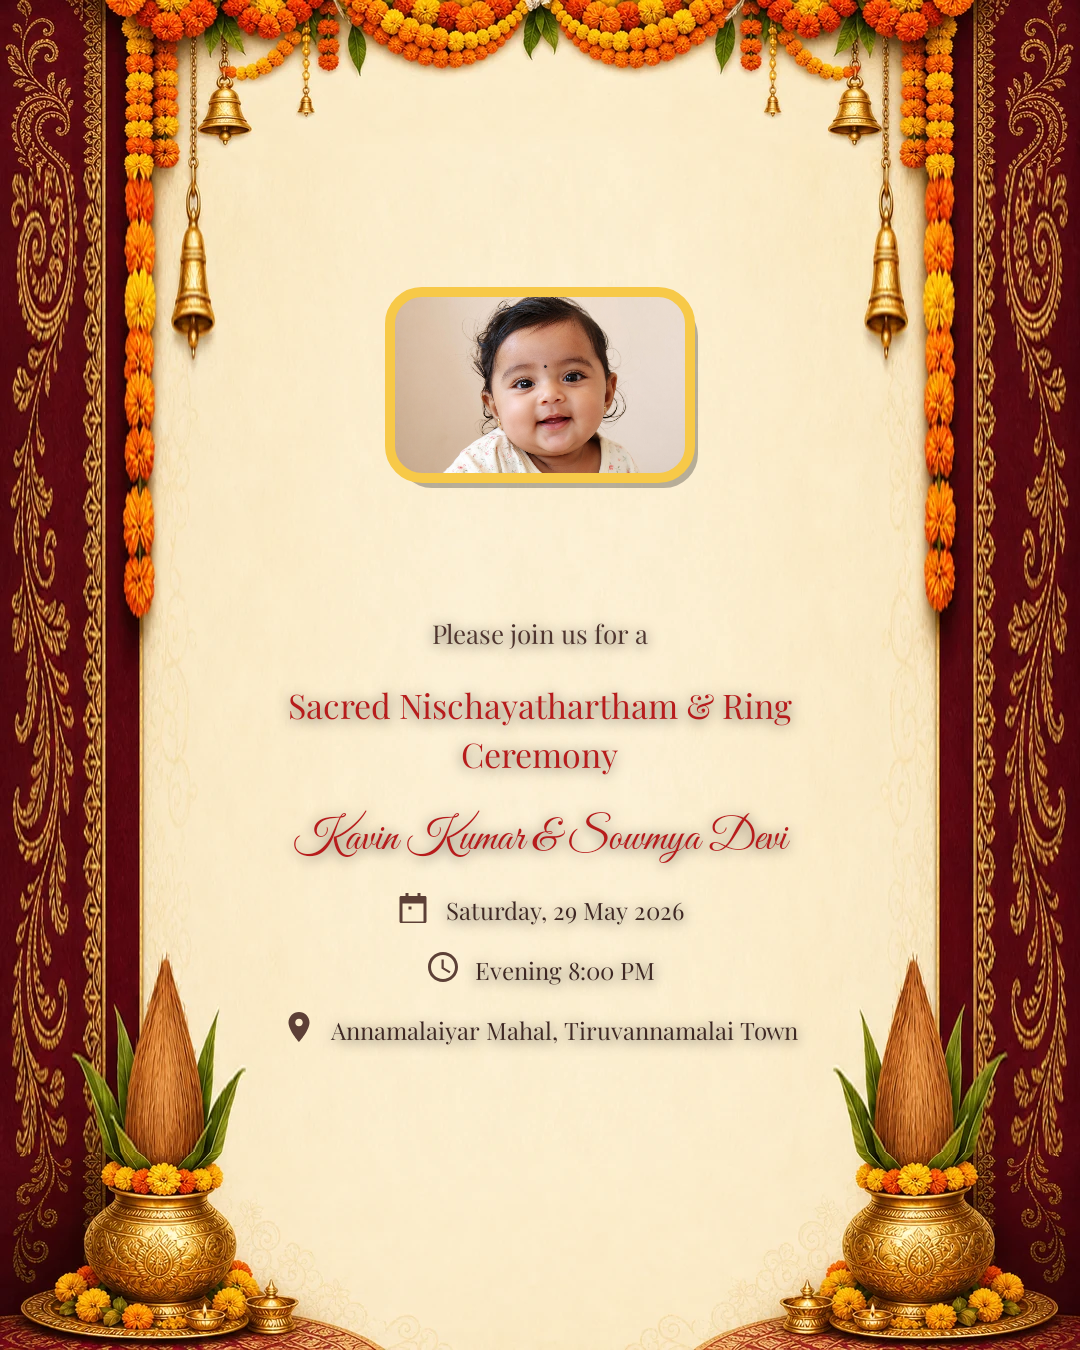
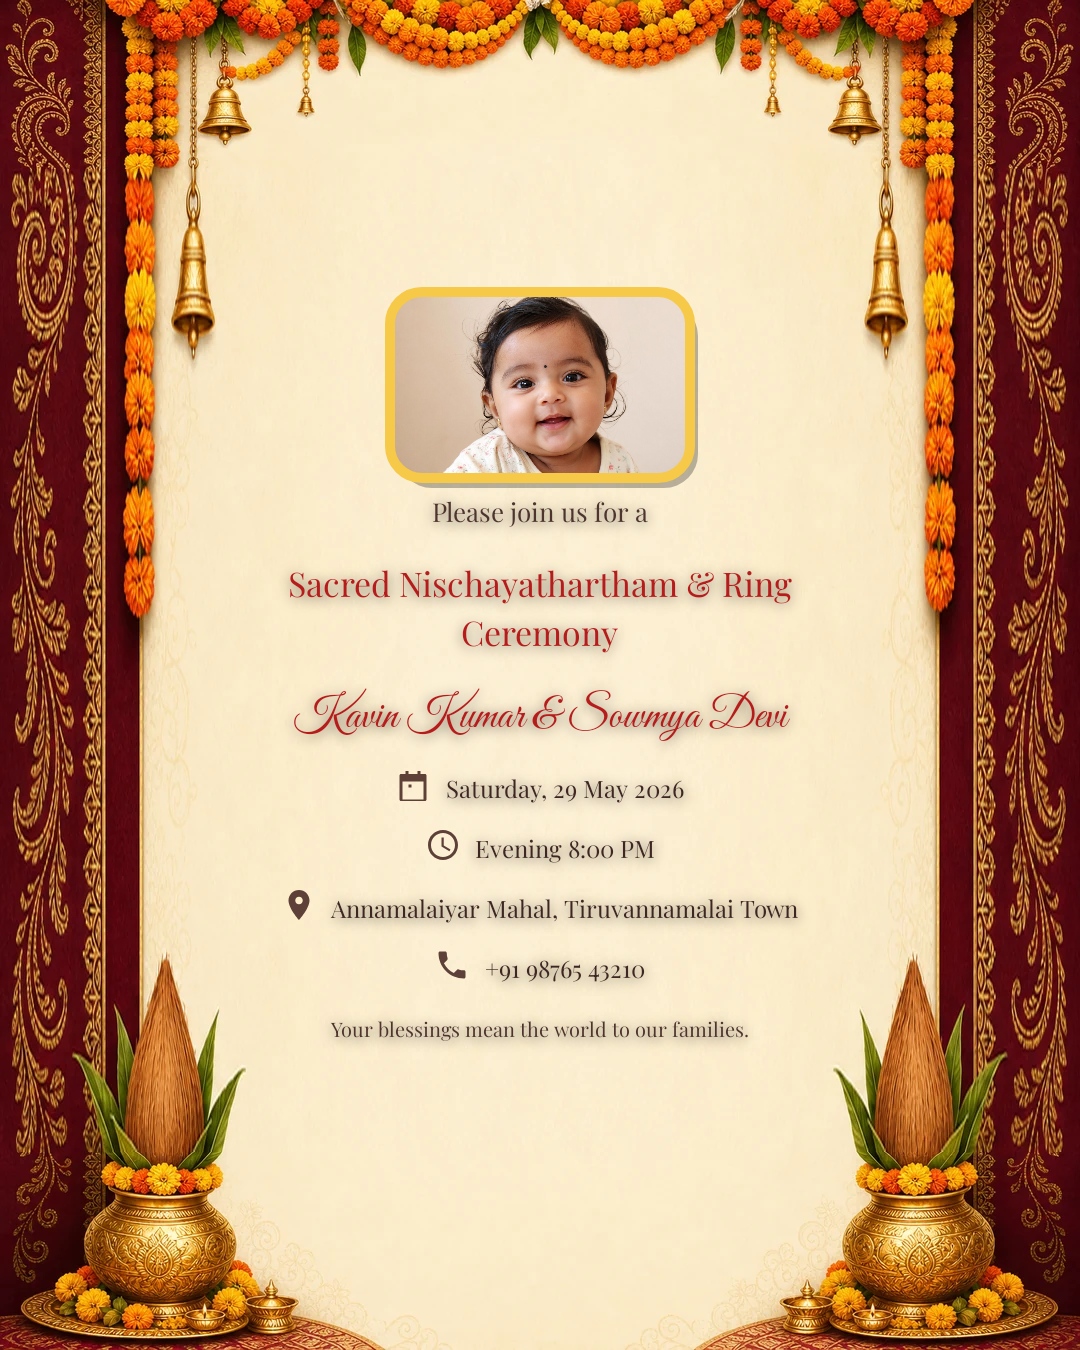
Expand photo slots across all categories with cross-category bounds tests
- Add AllCategoriesPhotoBoundsTest probing birthday, wedding, puberty,
  housewarming, engagement, naming, and baby shower at max-length copy
- Switch default photo frames to expanded wide slots (520×186) on all
  WebP templates; widen wedding_02/04/05 and housewarming_03 custom frames
- Fix wedding_05 text zone width and compact name sizing when photo uploaded
- Apply compact WebP photo layout (smaller fonts, 1-line venue) to all
  photo-background templates so birthday/puberty/housewarming fit max text

Changed region(s): [[0.2444, 0.3733, 0.7333, 0.7778]]

diff --git a/app/src/test/java/com/vaangainvite/core/image/AllCategoriesPhotoBoundsTest.kt b/app/src/test/java/com/vaangainvite/core/image/AllCategoriesPhotoBoundsTest.kt
@@ -1,0 +1,150 @@
+package com.vaangainvite.core.image
+
+import android.graphics.RectF
+import android.net.Uri
+import androidx.test.core.app.ApplicationProvider
+import com.vaangainvite.data.model.InvitationDetails
+import com.vaangainvite.data.model.InvitationFieldLimits
+import com.vaangainvite.data.model.InvitationLanguage
+import com.vaangainvite.data.repository.TemplateRepository
+import org.junit.After
+import org.junit.Assert.assertFalse
+import org.junit.Assert.assertTrue
+import org.junit.Test
+import org.junit.runner.RunWith
+import org.robolectric.RobolectricTestRunner
+import org.robolectric.annotation.GraphicsMode
+import java.io.File
+import java.io.FileOutputStream
+
+@RunWith(RobolectricTestRunner::class)
+@GraphicsMode(GraphicsMode.Mode.NATIVE)
+class AllCategoriesPhotoBoundsTest {
+
+    @After
+    fun tearDown() {
+        InvitationLayout.resetPhotoFramesForTests()
+    }
+
+    @Test
+    fun allCategoriesCurrentFramesFitMaxLengthCopy() {
+        val failures = mutableListOf<String>()
+        allPhotoWebpTemplateIds().forEach { id ->
+            val report = render(id)
+            if (!report.messageShown) failures += "$id message not shown"
+            if (report.messageTruncated) failures += "$id message truncated"
+        }
+        assertTrue(failures.joinToString("\n"), failures.isEmpty())
+    }
+
+    @Test
+    fun birthdayPubertyHousewarmingDefaultExpandedWideFitsMaxText() {
+        InvitationLayout.setDefaultPhotoFrameForTests(InvitationLayout.expandedDefaultPhotoFrame)
+        defaultFrameTemplateIds().forEach { id ->
+            assertMaxTextOk(id, label = "expanded-default")
+        }
+    }
+
+    @Test
+    fun engagementNamingBabyShowerExpandedWideFitsMaxText() {
+        PhotoCardPlacement.setFramedPhotoForTests(PhotoCardPlacement.expandedFramedPhoto)
+        photoCardTemplateIds().forEach { id ->
+            assertMaxTextOk(id, label = "expanded-photo-card")
+        }
+    }
+
+    @Test
+    fun weddingCustomTemplatesExpandedWideFitsMaxText() {
+        InvitationLayout.setTemplatePhotoFrameForTests(
+            "wedding_02",
+            RectF(320f, 308f, 760f, 498f)
+        )
+        InvitationLayout.setTemplatePhotoFrameForTests(
+            "wedding_04",
+            RectF(300f, 410f, 780f, 530f)
+        )
+        InvitationLayout.setTemplatePhotoFrameForTests(
+            "wedding_05",
+            RectF(390f, 360f, 690f, 490f)
+        )
+        listOf("wedding_02", "wedding_04", "wedding_05").forEach { id ->
+            assertMaxTextOk(id, label = "expanded-wedding")
+        }
+    }
+
+    @Test
+    fun housewarmingGopuramExpandedWideFitsMaxText() {
+        InvitationLayout.setTemplatePhotoFrameForTests(
+            "housewarming_03",
+            RectF(300f, 360f, 780f, 530f)
+        )
+        assertMaxTextOk("housewarming_03", label = "expanded-gopuram")
+    }
+
+    @Test
+    fun tallDefaultFrameTruncatesMaxLengthMessage() {
+        InvitationLayout.setDefaultPhotoFrameForTests(RectF(340f, 248f, 740f, 598f))
+        val report = render("birthday_01")
+        assertTrue(report.messageTruncated)
+    }
+
+    private fun assertMaxTextOk(templateId: String, label: String) {
+        val report = render(templateId)
+        assertTrue("$label $templateId message not shown", report.messageShown)
+        assertFalse("$label $templateId message truncated", report.messageTruncated)
+    }
+
+    private fun render(templateId: String) =
+        InvitationImageGenerator(ApplicationProvider.getApplicationContext())
+            .createInvitationBitmap(
+                template = TemplateRepository().templateById(templateId)!!,
+                details = maxDetails(),
+                language = InvitationLanguage.ENGLISH,
+                uploadedPhotoUri = copySamplePhoto(
+                    ApplicationProvider.getApplicationContext<android.content.Context>().cacheDir
+                )
+            ).renderReport
+
+    private fun maxDetails() = InvitationDetails(
+        occasionTitle = "E".repeat(InvitationFieldLimits.OCCASION_MAX_LENGTH),
+        name = "N".repeat(InvitationFieldLimits.NAME_MAX_LENGTH),
+        date = "D".repeat(InvitationFieldLimits.DATE_MAX_LENGTH),
+        time = "T".repeat(InvitationFieldLimits.TIME_MAX_LENGTH),
+        venue = "V".repeat(InvitationFieldLimits.VENUE_MAX_LENGTH),
+        mobileNumber = "+".repeat(InvitationFieldLimits.MOBILE_MAX_LENGTH),
+        message = "M".repeat(InvitationFieldLimits.MESSAGE_MAX_LENGTH_WITH_PHOTO)
+    )
+
+    private fun allPhotoWebpTemplateIds(): List<String> =
+        listOf("birthday", "wedding", "housewarming", "puberty", "engagement", "naming", "babyshower")
+            .flatMap { category -> (1..5).map { i -> "${category}_%02d".format(i) } }
+
+    private fun defaultFrameTemplateIds(): List<String> =
+        (1..5).map { "birthday_%02d".format(it) } +
+            (1..5).map { "puberty_%02d".format(it) } +
+            (1..5).map { "housewarming_%02d".format(it) }.filter { it != "housewarming_03" } +
+            listOf("wedding_01", "wedding_03")
+
+    private fun customFrameTemplateIds() = listOf(
+        "wedding_02", "wedding_04", "wedding_05", "housewarming_03"
+    )
+
+    private fun photoCardTemplateIds(): List<String> =
+        (1..5).flatMap { i ->
+            listOf(
+                "engagement_%02d".format(i),
+                "naming_%02d".format(i),
+                "babyshower_%02d".format(i)
+            )
+        }
+
+    private fun copySamplePhoto(cacheDir: File): Uri {
+        val outFile = File(cacheDir, "all_categories_bounds.png")
+        if (!outFile.exists()) {
+            val stream = javaClass.classLoader!!.getResourceAsStream("samples/couple_portrait.png")
+                ?: error("Missing test resource samples/couple_portrait.png")
+            FileOutputStream(outFile).use { out -> stream.copyTo(out) }
+        }
+        return Uri.fromFile(outFile)
+    }
+}

diff --git a/app/src/main/java/com/vaangainvite/core/image/InvitationLayout.kt b/app/src/main/java/com/vaangainvite/core/image/InvitationLayout.kt
@@ -69,14 +69,14 @@ internal object InvitationLayout {
             topInset = 10f
         ),
         "wedding_05" to TextZoneSpec(
-            left = 220f,
-            right = 860f,
+            left = 200f,
+            right = 880f,
             // Upper cream panel — garland ends ~y300; previous start (532) left a large empty gap.
             topNoPhoto = 328f,
             topWithPhoto = 496f,
-            // Vase panel stays wide until ~y1160; 915 was clipping the additional message.
-            bottom = 1140f,
-            messageBottom = 1100f,
+            // Vase panel stays wide until ~y1160.
+            bottom = 1170f,
+            messageBottom = 1135f,
             topInset = 4f,
             photoTextGap = 6f
         ),
@@ -90,7 +90,15 @@ internal object InvitationLayout {
             topInset = 10f
         ),
         "housewarming_05" to TextZoneSpec(left = 220f, right = 860f, topNoPhoto = 292f, topWithPhoto = 492f),
-        "puberty_01" to TextZoneSpec(left = 290f, right = 790f, topNoPhoto = 280f, topWithPhoto = 492f),
+        "puberty_01" to TextZoneSpec(
+            left = 250f,
+            right = 830f,
+            topNoPhoto = 280f,
+            topWithPhoto = 494f,
+            bottom = 1145f,
+            messageBottom = 1110f,
+            photoTextGap = 12f
+        ),
         // Engagement — continuous cream panel; text flows below photo (no divider line)
         "engagement_01" to photoCardTextZone,
         "engagement_02" to photoCardTextZone,
@@ -111,23 +119,50 @@ internal object InvitationLayout {
 
     private val templatePhotoFrames = mapOf(
         // Lower/wider slot inside the temple arch cream panel.
-        "wedding_02" to RectF(360f, 308f, 720f, 498f),
+        "wedding_02" to RectF(320f, 308f, 760f, 498f),
         // Below sacred-knot medallions on the thali motif card.
-        "wedding_04" to RectF(360f, 410f, 720f, 530f),
-        // Narrow upper cream panel on the peacock crest card.
-        "wedding_05" to RectF(420f, 360f, 660f, 490f),
+        "wedding_04" to RectF(300f, 410f, 780f, 530f),
+        // Narrow upper cream panel on the peacock crest card — widened within arch bounds.
+        "wedding_05" to RectF(390f, 360f, 690f, 490f),
         // Below mango-toran band on the gopuram doorway card.
-        "housewarming_03" to RectF(350f, 360f, 730f, 530f)
+        "housewarming_03" to RectF(300f, 360f, 780f, 530f)
     )
+
+    /** Shared wider slot — safe on default WebP templates (birthday, puberty, most housewarming). */
+    val expandedDefaultPhotoFrame = RectF(280f, 292f, 800f, 478f)
+
+    private val defaultPhotoFrameBase = expandedDefaultPhotoFrame
+    private var defaultPhotoFrameOverride: RectF? = null
+    private val templatePhotoFrameOverrides = mutableMapOf<String, RectF>()
 
     fun photoFrame(templateId: String = ""): RectF {
         if (PhotoCardPlacement.isPhotoCardTemplate(templateId)) {
             return PhotoCardPlacement.specFor(templateId).bounds
         }
+        templatePhotoFrameOverrides[templateId]?.let { return RectF(it) }
         return templatePhotoFrames[templateId] ?: defaultPhotoFrame()
     }
 
-    fun defaultPhotoFrame(): RectF = RectF(390f, 292f, 690f, 478f)
+    fun defaultPhotoFrame(): RectF = RectF(defaultPhotoFrameOverride ?: defaultPhotoFrameBase)
+
+    /** Test-only: override photo slot for layout probes. */
+    internal fun setDefaultPhotoFrameForTests(bounds: RectF?) {
+        defaultPhotoFrameOverride = bounds?.let { RectF(it) }
+    }
+
+    internal fun setTemplatePhotoFrameForTests(templateId: String, bounds: RectF?) {
+        if (bounds == null) {
+            templatePhotoFrameOverrides.remove(templateId)
+        } else {
+            templatePhotoFrameOverrides[templateId] = RectF(bounds)
+        }
+    }
+
+    internal fun resetPhotoFramesForTests() {
+        defaultPhotoFrameOverride = null
+        templatePhotoFrameOverrides.clear()
+        PhotoCardPlacement.setFramedPhotoForTests(PhotoCardPlacement.framedPhoto)
+    }
 
     /**
      * Horizontal + bottom inset for the additional message on photo WebP templates.

diff --git a/app/src/main/java/com/vaangainvite/core/image/InvitationImageGenerator.kt b/app/src/main/java/com/vaangainvite/core/image/InvitationImageGenerator.kt
@@ -223,31 +223,30 @@ class InvitationImageGenerator(private val context: Context) {
         val hasUserMessage = userMessage.isNotBlank()
         val isPeacockVase = template.id == "wedding_05"
         val isPhotoCard = PhotoCardPlacement.isPhotoCardTemplate(template.id)
+        val compactWebpPhoto = usesPhotoBackground && hasUploadedPhoto
+        val compactPhotoLayout = compactWebpPhoto || isPhotoCard
         val isPeacockWithPhoto = isPeacockVase && hasUploadedPhoto
-        val compactLayout = (hasUploadedPhoto && hasUserMessage) || isPeacockVase ||
-            (isPhotoCard && hasUploadedPhoto)
+        val compactLayout = (hasUploadedPhoto && hasUserMessage) || isPeacockVase || compactPhotoLayout
         val detailRowSpacing = when {
             isPeacockWithPhoto -> 4f
-            isPhotoCard && hasUploadedPhoto -> 4f
+            compactPhotoLayout -> 4f
             else -> InvitationLayout.Spacing.betweenDetails
         }
         val messageGap = when {
             isPeacockWithPhoto -> 8f
-            isPhotoCard && hasUploadedPhoto -> 8f
+            compactPhotoLayout -> 8f
             else -> InvitationLayout.Spacing.beforeMessageNoPhoto
         }
 
         val introSize = when {
-            isPhotoCard && hasUploadedPhoto -> 26f
+            compactPhotoLayout -> 26f
             isPeacockVase -> 28f
-            isPhotoCard && hasUploadedPhoto -> 28f
             template.id == "wedding_02" && hasUploadedPhoto -> 28f
             else -> 32f
         }
         val occasionSize = when {
-            isPhotoCard && hasUploadedPhoto -> 34f
+            compactPhotoLayout -> 34f
             isPeacockVase -> 38f
-            isPhotoCard && hasUploadedPhoto -> 38f
             template.id == "wedding_02" && hasUploadedPhoto -> 40f
             else -> 46f
         }
@@ -257,9 +256,9 @@ class InvitationImageGenerator(private val context: Context) {
         val namePaint = textPaint(
             palette.primaryColor,
             when {
+                isPeacockWithPhoto -> 44f
                 isPeacockVase -> 54f
-                isPhotoCard && hasUploadedPhoto -> 44f
-                isPhotoCard && hasUploadedPhoto -> 48f
+                compactPhotoLayout -> 44f
                 compactLayout && usesPhotoBackground -> 52f
                 hasUploadedPhoto && usesPhotoBackground -> 54f
                 template.id == "wedding_02" && usesPhotoBackground -> 62f
@@ -272,7 +271,7 @@ class InvitationImageGenerator(private val context: Context) {
         )
         val bodyPaint = textPaint(
             palette.bodyColor,
-            if (compactLayout || isPeacockVase || (isPhotoCard && hasUploadedPhoto)) 24f else 28f,
+            if (compactLayout || isPeacockVase || compactPhotoLayout) 24f else 28f,
             when (language) {
                 InvitationLanguage.TAMIL -> tamilTypeface
                 InvitationLanguage.ENGLISH -> serifTypeface()
@@ -282,8 +281,7 @@ class InvitationImageGenerator(private val context: Context) {
         val messagePaint = textPaint(
             palette.messageColor,
             when {
-                isPhotoCard && hasUploadedPhoto -> 20f
-                isPhotoCard && hasUploadedPhoto -> 22f
+                compactPhotoLayout -> 20f
                 usesPhotoBackground -> 24f
                 else -> 26f
             },
@@ -357,7 +355,7 @@ class InvitationImageGenerator(private val context: Context) {
             maxLines = 1,
             rowSpacing = detailRowSpacing
         )
-        val venueMaxLines = if (isPhotoCard && hasUploadedPhoto) 1 else InvitationDetails.VENUE_MAX_LINES
+        val venueMaxLines = if (compactPhotoLayout) 1 else InvitationDetails.VENUE_MAX_LINES
         blockTop = drawDetailWithIcon(
             canvas = canvas,
             iconResId = R.drawable.ic_invite_location,

diff --git a/app/src/main/java/com/vaangainvite/core/image/PhotoCardPlacement.kt b/app/src/main/java/com/vaangainvite/core/image/PhotoCardPlacement.kt
@@ -27,7 +27,7 @@ internal object PhotoCardPlacement {
      */
     val expandedFramedPhoto = RectF(280f, 292f, 800f, 478f)
 
-    val framedPhoto = compactFramedPhoto
+    val framedPhoto = expandedFramedPhoto
 
     private val templateIds = (1..5).flatMap { i ->
         listOf(
